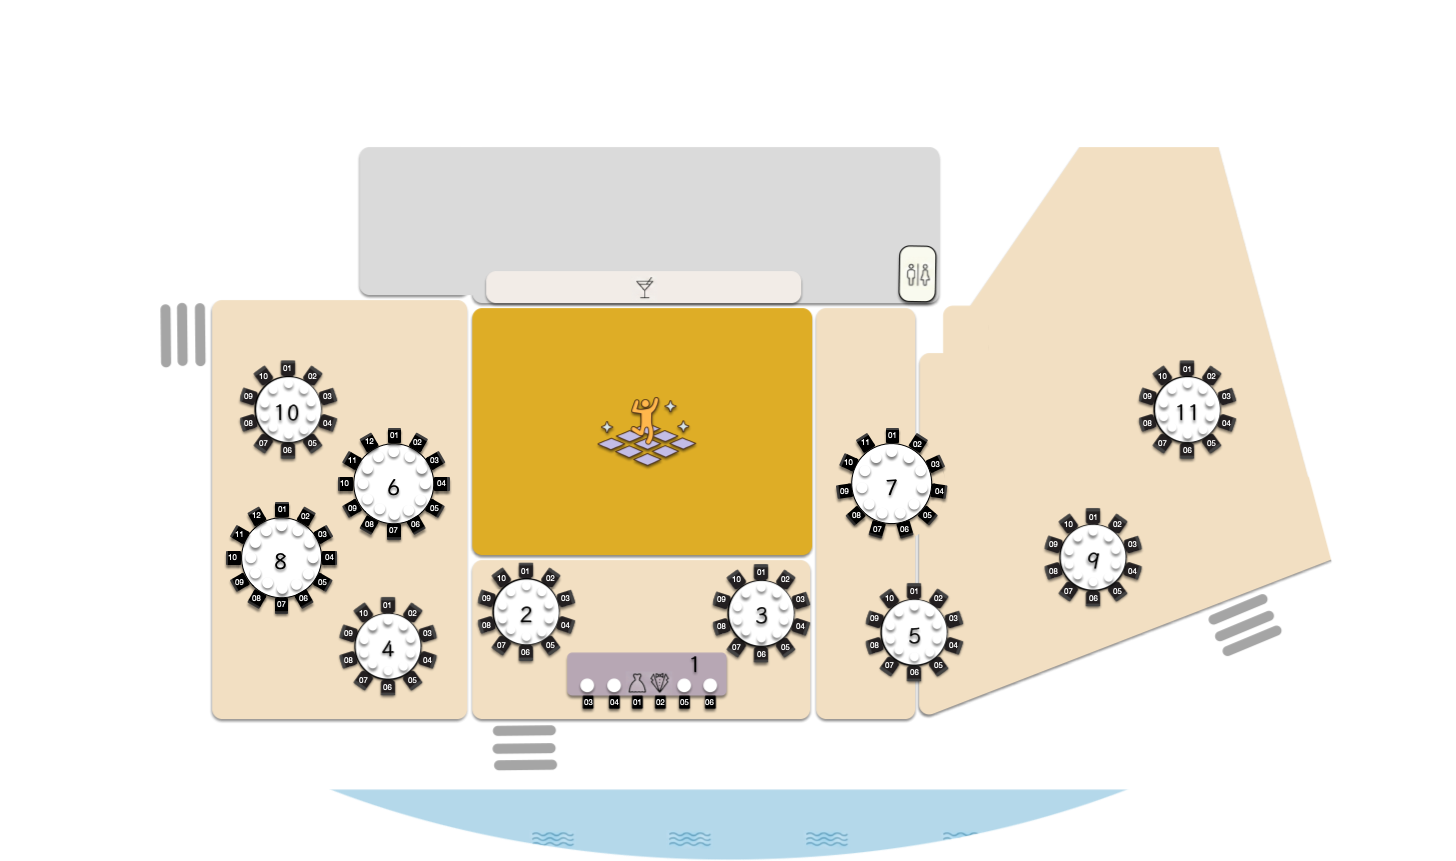
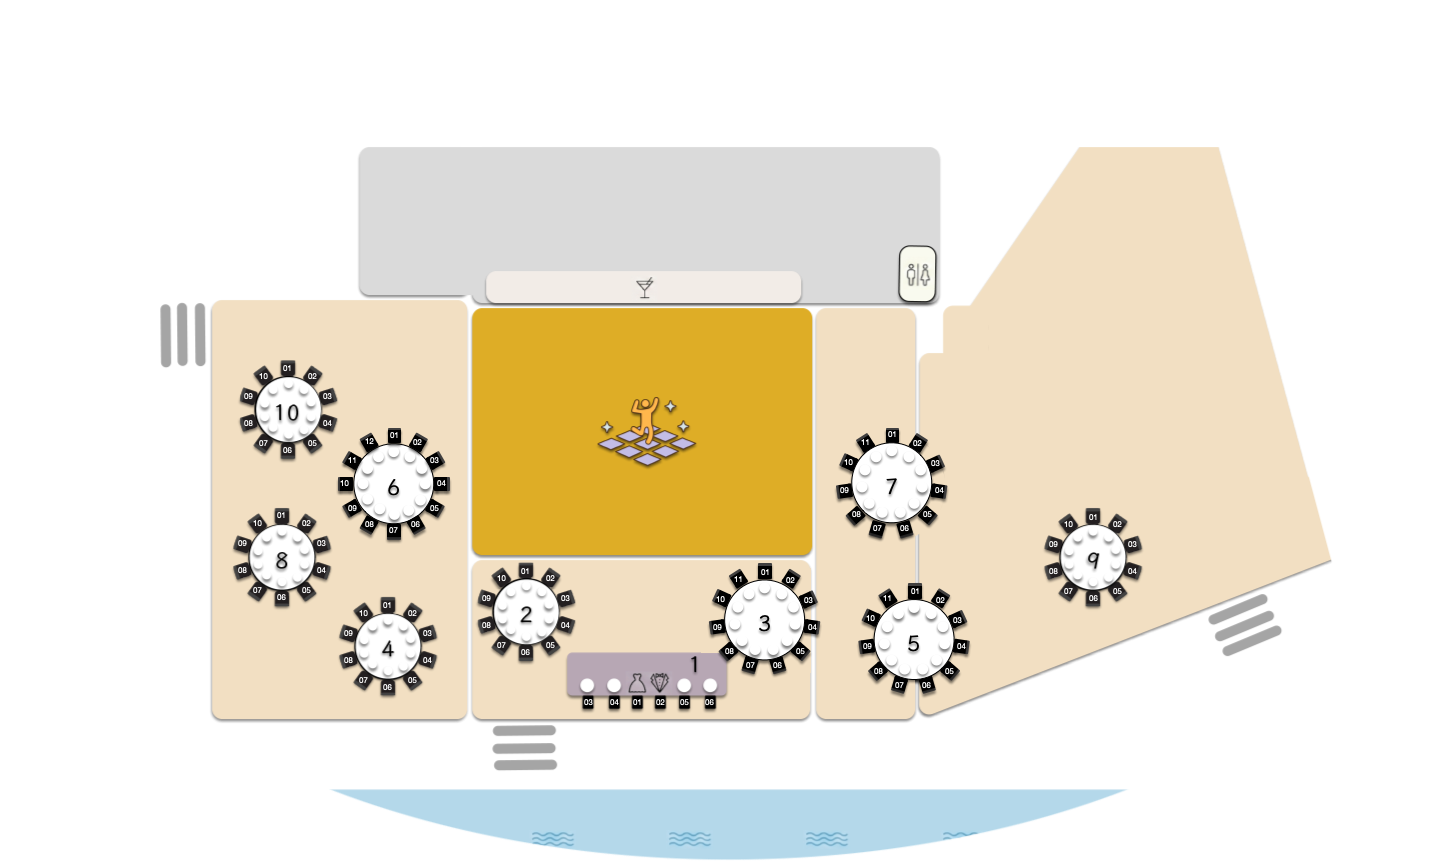
Recalibrate seating plan for new 10-table layout
Update registered places (Table 6 -> 12, Tables 3/5/7 -> 11, remove
Tables 11-12) and re-measure table centres and seat-ring radii against
the new seating-plan image. Seat radius now scales with the table's
seat count since larger tables are drawn bigger.

diff --git a/public/js/menu/seating.js b/public/js/menu/seating.js
@@ -3,30 +3,42 @@
 
 // ============================================================================
 // TABLE_POSITIONS: Hardcoded percentage-based positions for each table
-// on the static seating plan image (seating-plan.png, 1455 x 860 px).
+// on the static seating plan image (seating-plan.png, 1456 x 861 px).
 // Key = table number (1 = Head Table). Values = { x, y } as % from top-left.
-// 12 tables total: Table 1 (high table) + Tables 2–12.
+// 10 tables total: Table 1 (high table) + round Tables 2–10.
+// Centres measured from the rendered image (white table disk centroids).
 // ============================================================================
 // ============================================================================
-// Seat positioning for round tables (2–12).
-// 10 seats per table, evenly spaced clockwise, seat 01 at 12 o'clock.
-// Radius measured from table center to seat center (70 px on 1455×860 image).
+// Seat positioning for round tables (2–10).
+// Seats evenly spaced clockwise, seat 01 at 12 o'clock. The seat ring radius
+// is NOT constant: larger tables (11–12 places) are drawn bigger than the
+// standard 10-place tables, so the radius scales with the table's seat count.
+// Radii measured from the image (seat-box centroids to disk centre):
+//   10 places → 40.1 px;  11–12 places → 47.3 px  (on the 1456×861 image).
 // ============================================================================
 const SEATS_PER_TABLE = 10;
-const SEAT_RADIUS_X = 3.0;   // 43px / 1455px * 100
-const SEAT_RADIUS_Y = 5.0;   // 43px / 860px  * 100
+
+// Seat-ring radius as a % of image width/height, keyed by total places at the
+// table. Falls back to the 10-place radius for any unlisted count.
+const SEAT_RADIUS_BY_SEATS = {
+  10: { x: 2.75, y: 4.66 },   // 40.1px / 1456 , 40.1px / 861
+  11: { x: 3.25, y: 5.49 },   // 47.3px / 1456 , 47.3px / 861
+  12: { x: 3.25, y: 5.49 },   // 11- and 12-place tables share the larger disk
+};
+const SEAT_RADIUS_DEFAULT = SEAT_RADIUS_BY_SEATS[10];
 
 function getSeatPosition(tablePos, seatNumber, totalSeats) {
   const divisor = totalSeats > SEATS_PER_TABLE ? totalSeats : SEATS_PER_TABLE;
   if (!seatNumber || seatNumber < 1 || seatNumber > divisor) return tablePos;
+  const radius = SEAT_RADIUS_BY_SEATS[divisor] || SEAT_RADIUS_DEFAULT;
   const angle = -Math.PI / 2 + (seatNumber - 1) * (2 * Math.PI / divisor);
   return {
-    x: tablePos.x + SEAT_RADIUS_X * Math.cos(angle),
-    y: tablePos.y + SEAT_RADIUS_Y * Math.sin(angle)
+    x: tablePos.x + radius.x * Math.cos(angle),
+    y: tablePos.y + radius.y * Math.sin(angle)
   };
 }
 
-const HEAD_TABLE_HALF_WIDTH = 4.5;
+const HEAD_TABLE_HALF_WIDTH = 4.22;
 const HEAD_TABLE_SEAT_ORDER = [3, 4, 1, 2, 5, 6];
 
 function getHeadTableSeatPosition(tablePos, seatNumber) {
@@ -42,18 +54,16 @@ function getHeadTableSeatPosition(tablePos, seatNumber) {
 }
 
 const TABLE_POSITIONS = {
-  1:  { x: 44.5, y: 76.5 },  // Table 1 (High Table) — bottom center, rectangular
-  2:  { x: 36.0, y: 72.5 },  // Table 2 — left of dance floor, near bottom
-  3:  { x: 52.5, y: 72.5 },  // Table 3 — right of dance floor, near bottom
-  4:  { x: 26.75, y: 76.5 },  // Table 4 — bottom-left
-  5:  { x: 63.0, y: 75.0 },  // Table 5 — right side, lower
-  6:  { x: 27.5, y: 56.5 },  // Table 6 — left-center
-  7:  { x: 61.5, y: 56.5 },  // Table 7 — right of dance floor, mid
-  8:  { x: 19.5, y: 65.0 },  // Table 8 — left side, between 10 and 4
-  9:  { x: 75.0, y: 65.0 },  // Table 9 — far right, mid-lower
-  10: { x: 20.0, y: 47.5 },  // Table 10 — upper left
-  11: { x: 81.5, y: 48.5 },  // Table 11 — far right, upper
-  12: { x: 71.5, y: 40.0 },  // Table 12 — upper right
+  1:  { x: 44.5,  y: 79.5 },  // Table 1 (High Table) — bottom centre, rectangular
+  2:  { x: 36.15, y: 70.85 }, // Table 2 — left of dance floor, near bottom
+  3:  { x: 52.46, y: 71.77 }, // Table 3 — right of dance floor, near bottom (11)
+  4:  { x: 26.65, y: 74.86 }, // Table 4 — bottom-left
+  5:  { x: 62.73, y: 74.08 }, // Table 5 — right side, lower (11)
+  6:  { x: 26.99, y: 56.01 }, // Table 6 — left-centre (12)
+  7:  { x: 61.20, y: 55.89 }, // Table 7 — right of dance floor, mid (11)
+  8:  { x: 19.37, y: 64.50 }, // Table 8 — left side, between 10 and 4
+  9:  { x: 75.09, y: 64.52 }, // Table 9 — far right, mid-lower
+  10: { x: 19.82, y: 47.34 }, // Table 10 — upper left
 };
 
 
